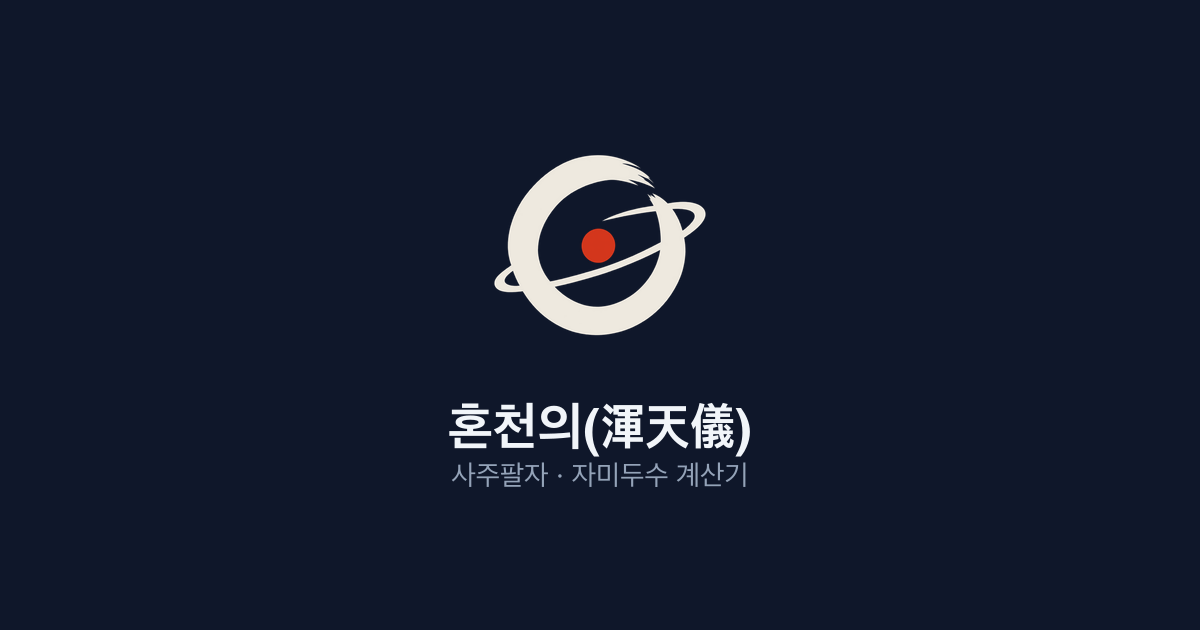
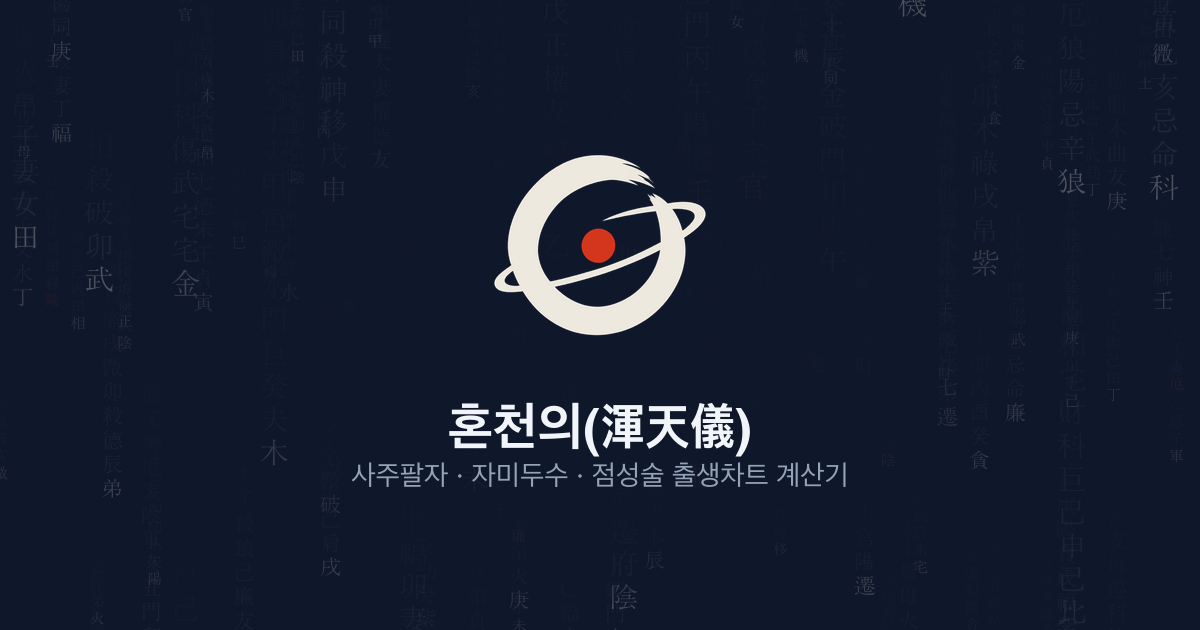
feat: OG 이미지에 한자 비 배경을 깔고 부제에 출생차트 추가
- 천간·지지, 자미두수 주성, 십신, 12궁, 사화, 오행 한자가 세로로 내리는 배경을 명조체로 그림
- 글자 크기를 세 층으로 나눠 원근감을 주고, 줄기 머리가 가장 밝고 꼬리로 갈수록 옅어지게 함
- 가운데에 배경색 원형 그라데이션을 덮어 로고와 제목 주변은 깨끗하게 유지
- 고정 시드 난수로 다시 생성해도 같은 이미지가 나오게 함
- 부제를 페이지 제목과 같은 '사주팔자 · 자미두수 · 점성술 출생차트 계산기'로 변경

diff --git a/scripts/generate-og-image.ts b/scripts/generate-og-image.ts
@@ -8,6 +8,91 @@ const OUTPUT = join(ROOT, 'public/og-image.png')
 const WIDTH = 1200
 const HEIGHT = 630
 const ICON_SIZE = 220
+const BACKGROUND = '#0f172a' // slate-900
+
+/**
+ * 배경에 비처럼 내리는 한자: 천간·지지, 자미두수 14주성, 십신, 12궁, 사화, 오행.
+ * 중복 글자는 한 번만 쓴다.
+ */
+const GLYPHS = [...new Set([
+  '甲乙丙丁戊己庚辛壬癸',
+  '子丑寅卯辰巳午未申酉戌亥',
+  '紫微天機太陽武曲天同廉貞天府太陰貪狼巨門天相天梁七殺破軍',
+  '比肩劫財食神傷官偏財正財偏官正官偏印正印',
+  '命宮兄弟夫妻子女財帛疾厄遷移交友官祿田宅福德父母',
+  '祿權科忌',
+  '木火土金水',
+].join(''))]
+
+/** 고정 시드 난수 (mulberry32) — 다시 생성해도 같은 이미지가 나오게 한다. */
+function createRandom(seed: number): () => number {
+  let state = seed >>> 0
+  return () => {
+    state = (state + 0x6d2b79f5) >>> 0
+    let t = state
+    t = Math.imul(t ^ (t >>> 15), t | 1)
+    t ^= t + Math.imul(t ^ (t >>> 7), t | 61)
+    return ((t ^ (t >>> 14)) >>> 0) / 4294967296
+  }
+}
+
+/** 원근감을 위한 세 층: 먼 층일수록 글자가 작고 흐리다. */
+const LAYERS = [
+  { fontSize: 15, opacity: 0.11, columnGap: 26 },
+  { fontSize: 21, opacity: 0.16, columnGap: 42 },
+  { fontSize: 29, opacity: 0.22, columnGap: 74 },
+] as const
+
+const TAIL_COLOR = '#64748b' // slate-500
+const HEAD_COLOR = '#f1ece2' // 로고 다크 변형의 미색
+const ACCENT_COLOR = '#d7391e' // 로고의 주색
+const ACCENT_CHANCE = 0.04
+
+function buildRain(random: () => number): string {
+  const pick = <T,>(items: readonly T[]): T => items[Math.floor(random() * items.length)]
+  const glyphs: string[] = []
+  for (const layer of LAYERS) {
+    const step = layer.fontSize * 1.15
+    for (let x = random() * layer.columnGap; x < WIDTH; x += layer.columnGap * (0.75 + random() * 0.5)) {
+      // 한 열에 줄기 1~2개: 맨 아래(머리)가 가장 밝고 위로 갈수록 옅어진다
+      const streams = random() < 0.35 ? 2 : 1
+      for (let s = 0; s < streams; s++) {
+        const length = 6 + Math.floor(random() * 14)
+        const headY = random() * (HEIGHT + length * step * 0.6)
+        const headColor = random() < ACCENT_CHANCE ? ACCENT_COLOR : HEAD_COLOR
+        for (let i = 0; i < length; i++) {
+          const y = headY - i * step
+          if (y < -step || y > HEIGHT + step) continue
+          const fade = (1 - i / length) ** 1.6
+          const opacity = layer.opacity * (i === 0 ? 1.25 : fade)
+          const color = i === 0 ? headColor : TAIL_COLOR
+          glyphs.push(
+            `<text x="${x.toFixed(1)}" y="${y.toFixed(1)}" font-size="${layer.fontSize}" fill="${color}" fill-opacity="${opacity.toFixed(3)}">${pick(GLYPHS)}</text>`,
+          )
+        }
+      }
+    }
+  }
+  return glyphs.join('\n')
+}
+
+const background = Buffer.from(`
+<svg xmlns="http://www.w3.org/2000/svg" width="${WIDTH}" height="${HEIGHT}">
+  <defs>
+    <!-- 가운데의 로고와 제목 주변은 비가 비치지 않게 배경색으로 덮는다 -->
+    <radialGradient id="clear" cx="50%" cy="51%" r="50%" gradientTransform="translate(0.5 0.51) scale(0.78 1) translate(-0.5 -0.51)">
+      <stop offset="0" stop-color="${BACKGROUND}" stop-opacity="0.97"/>
+      <stop offset="0.6" stop-color="${BACKGROUND}" stop-opacity="0.9"/>
+      <stop offset="1" stop-color="${BACKGROUND}" stop-opacity="0"/>
+    </radialGradient>
+  </defs>
+  <rect width="100%" height="100%" fill="${BACKGROUND}"/>
+  <g font-family="AppleMyungjo, 'Nanum Myeongjo', NanumMyeongjo, serif" text-anchor="middle">
+${buildRain(createRandom(0x0e7e17))}
+  </g>
+  <rect width="100%" height="100%" fill="url(#clear)"/>
+</svg>
+`)
 
 const icon = await sharp(ICON_SOURCE)
   .resize(ICON_SIZE, ICON_SIZE, { fit: 'contain', background: { r: 0, g: 0, b: 0, alpha: 0 } })
@@ -20,18 +105,11 @@ const title = Buffer.from(`
     .subtitle { fill: #94a3b8; font-size: 28px; font-weight: 400; font-family: sans-serif; }
   </style>
   <text x="${WIDTH / 2}" y="${HEIGHT / 2 + ICON_SIZE / 2 + 20}" text-anchor="middle" class="title">혼천의(渾天儀)</text>
-  <text x="${WIDTH / 2}" y="${HEIGHT / 2 + ICON_SIZE / 2 + 60}" text-anchor="middle" class="subtitle">사주팔자 · 자미두수 계산기</text>
+  <text x="${WIDTH / 2}" y="${HEIGHT / 2 + ICON_SIZE / 2 + 60}" text-anchor="middle" class="subtitle">사주팔자 · 자미두수 · 점성술 출생차트 계산기</text>
 </svg>
 `)
 
-await sharp({
-  create: {
-    width: WIDTH,
-    height: HEIGHT,
-    channels: 4,
-    background: { r: 15, g: 23, b: 42, alpha: 255 },  // slate-900
-  },
-})
+await sharp(background)
   .composite([
     {
       input: icon,
@@ -44,6 +122,7 @@ await sharp({
       top: 0,
     },
   ])
+  .flatten({ background: BACKGROUND })
   .png({ compressionLevel: 9 })
   .toFile(OUTPUT)
 
